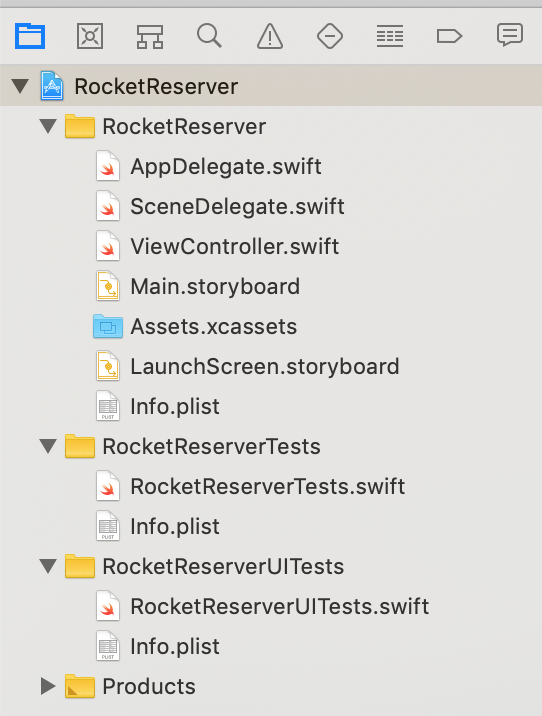
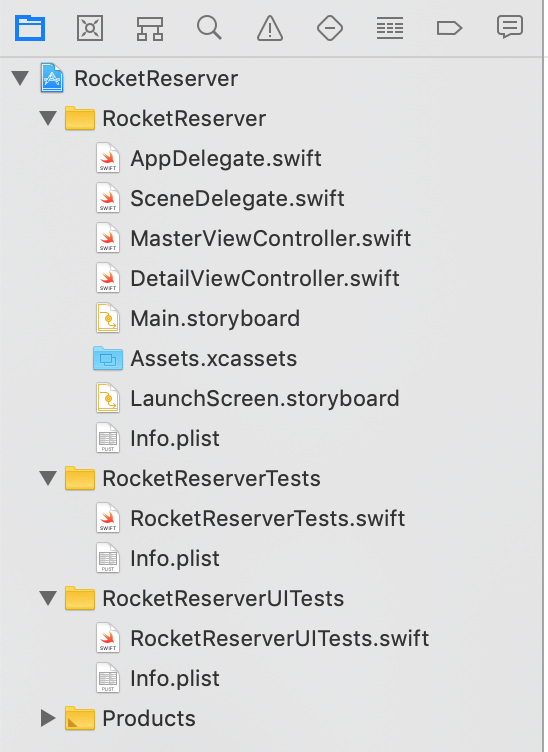
use master-detail, not single view

Changed region(s): [[0.0, 0.0, 1.0, 1.0], [0.059, 0.9525, 0.0886, 0.9832]]

diff --git a/docs/source/tutorial/tutorial_1.md b/docs/source/tutorial/tutorial_1.md
@@ -14,9 +14,9 @@ If you don't see that screen, go to **File > New > Project...** in the menus:
 
 ![creating a new project ](images/file_new_project.png)
 
-Either of those will bring you to the template chooser for a new project. Select **iOS** at the top and **Single View App**:
+Either of those will bring you to the template chooser for a new project. Select **iOS** at the top and **Master-Detail App**:
 
-![select single view app template](images/single_view_app.png)
+![select single view app template](images/master_detail_app.png)
 
 Then hit **Next**. You'll be brought to the options page for your new project. Name the project **RocketReserver**, make sure the language is **Swift**, and the User Interface is **Storyboards** (sorry, SwiftUI fans!):
 
